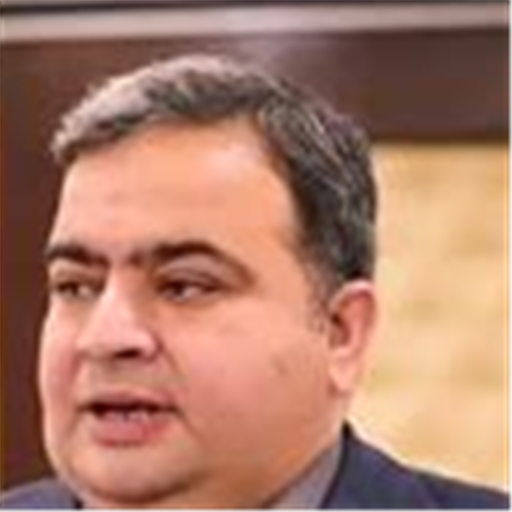
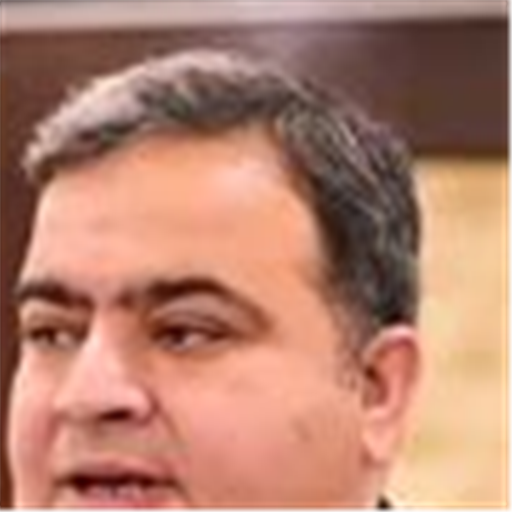
Fix mobile responsiveness and add portrait
- Final CTA heading scales down on mobile (text-4xl base)
- Header gets hamburger menu with slide-down mobile nav panel
- About page header features a small framed portrait
- Re-cropped favicon tighter on his face

diff --git a/components/site-header.tsx b/components/site-header.tsx
@@ -1,12 +1,17 @@
+"use client";
+
+import { useState } from "react";
 import Link from "next/link";
 import { nav, profile } from "@/content/site";
 import { ActionLink } from "./section";
 
 export function SiteHeader() {
+  const [menuOpen, setMenuOpen] = useState(false);
+
   return (
     <header className="sticky top-0 z-50 border-b border-hairline bg-paper/90 backdrop-blur-md">
       <div className="mx-auto flex max-w-6xl items-center justify-between gap-8 px-6 py-5">
-        <Link href="/" className="flex flex-col gap-0.5">
+        <Link href="/" className="flex flex-col gap-0.5" onClick={() => setMenuOpen(false)}>
           <span className="font-display text-xl font-semibold tracking-tight text-ink">
             {profile.wordmark}
           </span>
@@ -14,6 +19,8 @@ export function SiteHeader() {
             {profile.tagline}
           </span>
         </Link>
+
+        {/* Desktop nav */}
         <nav aria-label="Primary" className="hidden items-center gap-8 lg:flex">
           {nav.map((item) => (
             <Link
@@ -25,9 +32,63 @@ export function SiteHeader() {
             </Link>
           ))}
         </nav>
-        <ActionLink href={`mailto:${profile.email}`} className="hidden shrink-0 px-5 py-2.5 sm:inline-flex">
-          Get in Touch
-        </ActionLink>
+
+        <div className="flex items-center gap-4">
+          <ActionLink
+            href={`mailto:${profile.email}`}
+            className="hidden shrink-0 px-5 py-2.5 sm:inline-flex"
+          >
+            Get in Touch
+          </ActionLink>
+
+          {/* Mobile hamburger */}
+          <button
+            type="button"
+            onClick={() => setMenuOpen(!menuOpen)}
+            aria-expanded={menuOpen}
+            aria-label="Toggle navigation menu"
+            className="flex h-10 w-10 flex-col items-center justify-center gap-1.5 border border-ink/15 lg:hidden"
+          >
+            <span
+              className={`block h-px w-5 bg-ink transition-transform duration-300 ${
+                menuOpen ? "translate-y-[3.5px] rotate-45" : ""
+              }`}
+            />
+            <span
+              className={`block h-px w-5 bg-ink transition-transform duration-300 ${
+                menuOpen ? "-translate-y-[3px] -rotate-45" : ""
+              }`}
+            />
+          </button>
+        </div>
+      </div>
+
+      {/* Mobile menu panel */}
+      <div
+        className={`overflow-hidden border-t border-hairline bg-paper transition-all duration-300 lg:hidden ${
+          menuOpen ? "max-h-96 opacity-100" : "max-h-0 opacity-0"
+        }`}
+      >
+        <nav aria-label="Mobile" className="mx-auto max-w-6xl px-6 py-6">
+          <ul className="space-y-1">
+            {nav.map((item) => (
+              <li key={item.label}>
+                <Link
+                  href={item.href}
+                  onClick={() => setMenuOpen(false)}
+                  className="block border-b border-hairline py-3.5 font-mono text-sm uppercase tracking-[0.16em] text-ink-soft transition-colors hover:text-ink"
+                >
+                  {item.label}
+                </Link>
+              </li>
+            ))}
+          </ul>
+          <div className="mt-6">
+            <ActionLink href={`mailto:${profile.email}`} className="w-full justify-center">
+              Get in Touch
+            </ActionLink>
+          </div>
+        </nav>
       </div>
     </header>
   );

diff --git a/components/about-header.tsx b/components/about-header.tsx
@@ -1,3 +1,4 @@
+import Image from "next/image";
 import { about } from "@/content/about";
 import { ActionLink, Eyebrow } from "./section";
 
@@ -5,13 +6,45 @@ export function AboutHeader() {
   return (
     <section className="border-b border-hairline bg-paper">
       <div className="mx-auto max-w-6xl px-6 pt-20 pb-16 md:pt-28 md:pb-20">
-        <Eyebrow>{about.header.eyebrow}</Eyebrow>
-        <h1 className="mt-6 max-w-4xl font-display text-4xl font-semibold leading-[1.06] tracking-[-0.02em] text-ink md:text-6xl">
-          {about.header.heading}
-        </h1>
-        <p className="mt-8 max-w-3xl text-lg leading-relaxed text-ink-soft">{about.header.intro}</p>
-        <div className="mt-10">
-          <ActionLink href={about.header.cta.href}>{about.header.cta.label}</ActionLink>
+        <div className="grid gap-12 lg:grid-cols-12 lg:items-center lg:gap-16">
+          <div className="lg:col-span-9">
+            <Eyebrow>{about.header.eyebrow}</Eyebrow>
+            <h1 className="mt-6 max-w-3xl font-display text-4xl font-semibold leading-[1.06] tracking-[-0.02em] text-ink md:text-6xl">
+              {about.header.heading}
+            </h1>
+            <p className="mt-8 max-w-2xl text-lg leading-relaxed text-ink-soft">
+              {about.header.intro}
+            </p>
+            <div className="mt-10">
+              <ActionLink href={about.header.cta.href}>{about.header.cta.label}</ActionLink>
+            </div>
+          </div>
+
+          {/* Portrait */}
+          <div className="lg:col-span-3">
+            <figure className="group mx-auto max-w-[240px]">
+              <div className="relative">
+                <div
+                  aria-hidden="true"
+                  className="absolute -right-2.5 -top-2.5 h-full w-full border border-oxblood/30"
+                />
+                <div className="relative overflow-hidden border border-hairline bg-cream">
+                  <Image
+                    src="/assets/speaking-event.jpg"
+                    alt="Dr. Muhammad Tariq Yousafzai"
+                    width={474}
+                    height={268}
+                    className="h-auto w-full object-cover transition-transform duration-500 group-hover:scale-[1.02]"
+                  />
+                </div>
+              </div>
+              <figcaption className="mt-4 border-t border-hairline pt-3 text-center">
+                <span className="font-mono text-[10px] uppercase tracking-[0.18em] text-ink-soft/60">
+                  Dr. Muhammad Tariq Yousafzai
+                </span>
+              </figcaption>
+            </figure>
+          </div>
         </div>
       </div>
     </section>

diff --git a/components/final-cta.tsx b/components/final-cta.tsx
@@ -3,9 +3,9 @@ import { ActionLink } from "./section";
 
 export function FinalCta() {
   return (
-    <section className="bg-ink px-6 py-28 md:py-40">
+    <section className="bg-ink px-6 py-20 md:py-40">
       <div className="mx-auto max-w-6xl">
-        <h2 className="font-display text-7xl font-semibold leading-[1.02] tracking-[-0.03em] text-paper md:text-9xl">
+        <h2 className="font-display text-4xl font-semibold leading-[1.05] tracking-[-0.02em] text-paper sm:text-5xl md:text-7xl lg:text-8xl xl:text-9xl">
           {finalCta.lines.map((line) => (
             <span key={line} className="block">
               {line.replace(/\.$/, "")}
@@ -13,8 +13,10 @@ export function FinalCta() {
             </span>
           ))}
         </h2>
-        <p className="mt-12 max-w-xl text-lg leading-relaxed text-paper/60">{finalCta.body}</p>
-        <div className="mt-12 flex flex-wrap items-center gap-4">
+        <p className="mt-10 max-w-xl text-base leading-relaxed text-paper/60 md:mt-12 md:text-lg">
+          {finalCta.body}
+        </p>
+        <div className="mt-10 flex flex-wrap items-center gap-4 md:mt-12">
           <ActionLink href={finalCta.links.primary.href} variant="onDark">
             {finalCta.links.primary.label}
           </ActionLink>
